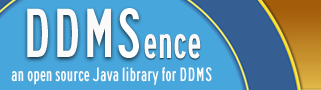
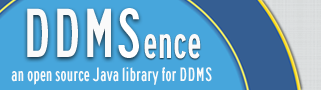
Issue #177: Website updates.

Changed region(s): [[0.81, 0.0, 1.0, 1.0]]

diff --git a/data/web/shared/ddmsence.css b/data/web/shared/ddmsence.css
@@ -3,11 +3,11 @@
  */
 
 a.menu:link, a.menu:visited {
-	color: #bb8022;
+	color: #bbaa22;
 	text-decoration: none;
 }
 a.menu:hover {
-	color: #dfb546;
+	color: #dfdf46;
 	cursor: pointer;
 	text-decoration: underline;
 }
@@ -46,7 +46,7 @@ div.feed {
 	margin: 0px 5px 0px 5px;
 }
 div.newsFeed {
-	background-color: #dde3e5;
+	background-color: #feffca;
 	border-color: #000049;
 	border-style: solid;
 	border-width: 2px;
@@ -99,7 +99,7 @@ h2 {
 	font-size: 12pt;
 }
 h3 {
-	background-color: #000049;
+	background-color: #4d84bd;
 	color: #ffffff;
 	font-size: 11pt;
 	padding: 4px;

diff --git a/src/main/buri/ddmsence/AbstractBaseComponent.java b/src/main/buri/ddmsence/AbstractBaseComponent.java
@@ -166,8 +166,8 @@ public abstract class AbstractBaseComponent implements IDDMSComponent {
 	 * @param component a text description of the component that is being warned about
 	 */
 	protected void addDdms40Warning(String component) {
-		addWarning("The " + component + " in this DDMS component was introduced in a newer version of DDMS that shares "
-			+ "the same XML namespace as an older version of DDMS.");
+		addWarning("The " + component + " in this DDMS component was introduced in DDMS 4.1, and will prevent this XML instance" +
+				"from being understood by DDMS 4.0.1 systems.");
 	}
 
 	/**
